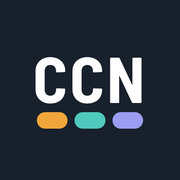
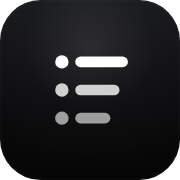
Sunucu paketi 63 (aa3c1d7)

diff --git a/app.js b/app.js
@@ -1,5 +1,5 @@
 'use strict';
-/* CCN Vardiya Programı — vardiya listesi görsellerinden 1/2/3 vardiya, OFF, rapor ve izin listeleri çıkarır.
+/* Vardiya Listesi — vardiya listesi görsellerinden 1/2/3 vardiya, OFF, rapor ve izin listeleri çıkarır.
    Tüm veri cihazda (localStorage) tutulur; APK (Capacitor) içinde de aynı kod çalışır. */
 
 // ---------- Sabitler ----------
@@ -267,7 +267,7 @@ window.addEventListener('error', (e) => logError('genel', e.error || e.message))
 window.addEventListener('unhandledrejection', (e) => logError('genel', e.reason));
 function errorReport() {
   const list = readLS(ERR_KEY, []);
-  return [`CCN Vardiya Programı hata raporu`, `Sürüm: ${APP_VERSION}`, `Tarih: ${new Date().toLocaleString('tr-TR')}`,
+  return [`Vardiya Listesi hata raporu`, `Sürüm: ${APP_VERSION}`, `Tarih: ${new Date().toLocaleString('tr-TR')}`,
     `Cihaz: ${navigator.userAgent}`, `Ekran: ${screen.width}×${screen.height} @${devicePixelRatio}x`, `Dil: ${navigator.language}`, `Bağlantı: ${navigator.onLine ? 'çevrimiçi' : 'çevrimdışı'}`,
     `Kayıtlı kişi: ${Object.keys(store.people).length} · Yüklenen liste: ${store.uploads.length}`, '',
     list.length ? `Son hatalar (${list.length}):` : 'Kayıtlı hata yok.', ...list.map((x) => `- ${x.at} [${x.where}] ${x.msg}${x.stack ? '\n  ' + x.stack : ''}`)].join('\n');
@@ -287,7 +287,7 @@ async function checkForUpdate(manual) {
 function updateSheet(info) {
   const v = info.availableVersionName ? ` (${esc(info.availableVersionName)})` : '';
   sheet(`<div class="permhead">${ICON_UPLOAD}<h3>Yeni sürüm hazır${v}</h3></div>
-    <p class="muted" style="margin:0">CCN Vardiya Programı'nın yeni sürümü Google Play'de. Yenilikler ve düzeltmeler için şimdi güncelleyin. Kayıtlı listeleriniz silinmez.</p>
+    <p class="muted" style="margin:0">Vardiya Listesi'nin yeni sürümü Google Play'de. Yenilikler ve düzeltmeler için şimdi güncelleyin. Kayıtlı listeleriniz silinmez.</p>
     <div class="row"><button class="btn primary" id="up-ok">Güncelle</button><button class="btn" data-x="1">Sonra</button></div>`, (bg) => {
     bg.querySelector('#up-ok').addEventListener('click', async () => {
       closeSheet();
@@ -302,7 +302,7 @@ function updateSheet(info) {
 // Görsel seçmeden önce fotoğraf erişimi için izin iste (bir kez; Ayarlar'dan geri alınabilir)
 function askPhotoAccess(then) {
   sheet(`<div class="permhead">${ICON_IMAGE}<h3>Fotoğraflarınıza erişim</h3></div>
-    <p class="muted" style="margin:0"><b>CCN Vardiya Programı</b>, vardiya listesi görsellerini okuyabilmek için fotoğraflarınıza erişmek istiyor.</p>
+    <p class="muted" style="margin:0"><b>Vardiya Listesi</b>, vardiya listesi görsellerini okuyabilmek için fotoğraflarınıza erişmek istiyor.</p>
     <ul class="small muted permlist"><li>Yalnızca sizin seçtiğiniz görseller açılır.</li><li>Görseller okunduktan sonra saklanmaz, telefon dışına gönderilmez.</li><li>İzni istediğiniz zaman Ayarlar’dan geri alabilirsiniz.</li></ul>
     <div class="row"><button class="btn primary" id="pa-ok">İzin ver</button><button class="btn" id="pa-no">İzin verme</button></div>`, (bg) => {
     bg.querySelector('#pa-ok').addEventListener('click', () => { prefs.photoOk = true; savePrefs(); closeSheet(); then(); });
@@ -483,7 +483,7 @@ async function renderPushCard() {
   const info = `<ul class="small muted" style="margin:0;padding-left:18px"><li>Bildirimler <b>zorunludur</b>: duyurular, yeni vardiya listesi, vardiya hatırlatması, şikayet ve güncellemeler herkese gelir.</li><li><b>OFF, rapor ve izin günlerinizde</b> bildirim gönderilmez (yalnızca hesap güvenliği uyarıları gelir).</li></ul>`;
   const body = {
     yok: '<p class="small muted" style="margin:0">Bu tarayıcı bildirimleri desteklemiyor. Android’de Chrome, bilgisayarda Chrome ya da Edge kullanın.</p>',
-    ios: `<p class="small muted" style="margin:0">iPhone ve iPad’de bildirim için önce siteyi ana ekrana ekleyin, sonra ana ekrandaki <b>CCN Vardiya</b> simgesinden açıp buradan bildirimi açın.</p><div><button class="btn" data-act="install-app">${ICON_DOWNLOAD}Ana ekrana ekle</button></div>`,
+    ios: `<p class="small muted" style="margin:0">iPhone ve iPad’de bildirim için önce siteyi ana ekrana ekleyin, sonra ana ekrandaki <b>Vardiya Listesi</b> simgesinden açıp buradan bildirimi açın.</p><div><button class="btn" data-act="install-app">${ICON_DOWNLOAD}Ana ekrana ekle</button></div>`,
     red: '<p class="small muted" style="margin:0">Bildirim izni kapalı. Tarayıcının ya da telefonun ayarlarından bu site için bildirimlere izin verin, sonra sayfayı yenileyin.</p>',
     acik: '', kapali: '',
   }[st];
@@ -505,7 +505,7 @@ function installApp() {
     firefox: ['Firefox uygulama olarak eklemeyi desteklemiyor.', 'Bu sayfayı <b>Google Chrome</b> ya da <b>Microsoft Edge</b>’de açın ve buradaki düğmeye tekrar basın.'],
     desktop: ['Adres çubuğunun sağındaki <b>yükle</b> simgesine (⊕ ya da ekran simgesi) tıklayın.', 'Simge yoksa: Chrome’da <b>⋮</b> menüsü → <b>Yayınla, kaydet ve paylaş</b> → <b>Sayfayı uygulama olarak yükle</b>; Edge’de <b>…</b> menüsü → <b>Uygulamalar</b> → <b>Bu siteyi uygulama olarak yükle</b>.', '<b>Yükle</b>’ye tıklayın. Masaüstünde ve Başlat menüsünde simgesi çıkar.'],
   }[pf];
-  sheet(`<h3>Uygulama olarak ekle</h3><p class="small muted" style="margin:0">CCN Vardiya ${pf === 'ios' || pf === 'android' ? 'ana ekranınıza' : 'bilgisayarınıza'} uygulama olarak eklenir; tek dokunuşla, tarayıcı çubuğu olmadan açılır.</p>
+  sheet(`<h3>Uygulama olarak ekle</h3><p class="small muted" style="margin:0">Vardiya Listesi ${pf === 'ios' || pf === 'android' ? 'ana ekranınıza' : 'bilgisayarınıza'} uygulama olarak eklenir; tek dokunuşla, tarayıcı çubuğu olmadan açılır.</p>
     <ol class="steps">${steps.map((x) => `<li>${x}</li>`).join('')}</ol>
     <div class="row"><button class="btn primary" data-x="1">Tamam</button></div>`);
 }
@@ -822,7 +822,7 @@ function render() {
   sub.textContent = store.settings.company ? store.settings.company : SERVER && auth ? (canEdit() ? 'Yönetim paneli' : 'Vardiya listesi') : '1 · 2 · 3 vardiya, OFF ve izin takibi';
   let lastSync = null; try { lastSync = localStorage.getItem('ccn-son-veri'); } catch (e) { /* yoksay */ }
   const offline = SERVER && auth && srv.offline ? `<div class="banner offline"><p><b>Çevrimdışı</b> · son güncelleme ${lastSync ? fmtWhen(lastSync) : 'bilinmiyor'}. İnternet gelince liste kendiliğinden yenilenir.</p></div>` : '';
-  const inst = canOfferInstall() && auth && !prefs.installHide ? `<div class="banner install"><p><b>CCN Vardiya’yı uygulama olarak ekleyin.</b> ${devicePlatform() === 'ios' || devicePlatform() === 'android' ? 'Ana ekranınızdan' : 'Masaüstünüzden'} tek dokunuşla açılır.</p><button class="btn primary" data-act="install-app">${ICON_DOWNLOAD}Ekle</button><button class="btn" data-act="install-hide">Kapat</button></div>` : '';
+  const inst = canOfferInstall() && auth && !prefs.installHide ? `<div class="banner install"><p><b>Vardiya Listesi’ni uygulama olarak ekleyin.</b> ${devicePlatform() === 'ios' || devicePlatform() === 'android' ? 'Ana ekranınızdan' : 'Masaüstünüzden'} tek dokunuşla açılır.</p><button class="btn primary" data-act="install-app">${ICON_DOWNLOAD}Ekle</button><button class="btn" data-act="install-hide">Kapat</button></div>` : '';
   const pst = srv.pushState;
   const pushBan = SERVER && auth && !NATIVE && pst && pst !== 'acik' && pst !== 'yok' ? `<div class="banner pushban"><p><b>🔔 Bildirimler zorunludur.</b> ${pst === 'kapali' ? 'Duyuru, liste ve vardiya bildirimlerini almak için izin verin.' : pst === 'red' ? 'Bildirim izni kapalı. Tarayıcının ya da telefonun ayarlarından bu siteye bildirim izni verin.' : 'iPhone/iPad’de bildirim için siteyi ana ekrana ekleyin ve oradan açın.'}</p>${pst === 'kapali' ? '<button class="btn primary" data-act="push-allow">İzin ver</button>' : pst === 'ios' ? `<button class="btn primary" data-act="install-app">${ICON_DOWNLOAD}Ana ekrana ekle</button>` : ''}</div>` : '';
   let banner = offline + pushBan + inst + (store.demo ? `<div class="banner"><p><b>Örnek veri gösteriliyor.</b> Kendi vardiya listenizin görselini “Liste Yükle” bölümünden ekleyin; örnek veri o zaman silinir.</p><button class="btn" data-act="clear-demo">Örnek veriyi temizle</button></div>` : '');
@@ -1102,7 +1102,7 @@ function showWhatsNew(force) {
   const r = srv.yenilikler; if (!r || !r.surum) return;
   if (!force && prefs.seenNotes === r.surum) return;
   prefs.seenNotes = r.surum; savePrefs();
-  sheet(`<div class="eyebrow">Yenilikler</div><h3 style="margin:0;font-size:22px">CCN Vardiya ${esc(r.surum)}</h3>
+  sheet(`<div class="eyebrow">Yenilikler</div><h3 style="margin:0;font-size:22px">Vardiya Listesi ${esc(r.surum)}</h3>
     <ul class="whatsnew">${(r.maddeler || []).map((m) => `<li>${esc(m)}</li>`).join('')}</ul>
     <div class="row"><button class="btn primary" data-x="1">Tamam</button></div>`);
 }
@@ -1441,7 +1441,7 @@ async function exportExcel() {
   if (!people.length) { toast('Çizelgede kimse yok'); return; }
   const title = ui.gridSpan === 'ay' ? `${MONTHS[parseIso(days[0]).getMonth()]} ${parseIso(days[0]).getFullYear()}` : `${fmtShort(days[0])}-${fmtShort(days[days.length - 1])}`;
   const blob = buildXlsx(days, people, title);
-  const name = `CCN-Vardiya-${days[0]}_${days[days.length - 1]}${ui.gridGroup !== 'all' ? '-' + ui.gridGroup + '.vardiya' : ''}.xlsx`;
+  const name = `Vardiya-Listesi-${days[0]}_${days[days.length - 1]}${ui.gridGroup !== 'all' ? '-' + ui.gridGroup + '.vardiya' : ''}.xlsx`;
   const file = new File([blob], name, { type: blob.type });
   const native = !!(window.Capacitor && window.Capacitor.isNativePlatform && window.Capacitor.isNativePlatform());
   if (native && navigator.canShare && navigator.canShare({ files: [file] })) { try { await navigator.share({ files: [file], title: name }); return; } catch (e) { if (e && e.name === 'AbortError') return; } }
@@ -1952,7 +1952,7 @@ const actions = {
   'photo-allow': () => askPhotoAccess(() => { render(); toast('Fotoğraf izni verildi'); }),
   'photo-revoke': () => { prefs.photoOk = false; savePrefs(); render(); toast('Fotoğraf izni kaldırıldı'); },
   'check-update': () => checkForUpdate(true),
-  'send-report': () => doShare(errorReport(), 'CCN Vardiya Programı hata raporu'),
+  'send-report': () => doShare(errorReport(), 'Vardiya Listesi hata raporu'),
   'clear-errors': () => { writeLS(ERR_KEY, []); render(); toast('Hata kayıtları temizlendi'); },
   'wipe': () => confirmSheet('Tüm veriler silinsin mi?', 'Yüklenen bütün listeler ve kişiler bu cihazdan silinir. Bu işlem geri alınamaz.', 'Hepsini sil', () => { store = defaultStore(); save(); render(); toast('Tüm veriler silindi'); }),
 };

diff --git a/index.html b/index.html
@@ -9,11 +9,11 @@
 <link rel="apple-touch-icon" href="apple-touch-icon.png">
 <meta name="mobile-web-app-capable" content="yes">
 <meta name="apple-mobile-web-app-capable" content="yes">
-<meta name="apple-mobile-web-app-title" content="CCN Vardiya">
+<meta name="apple-mobile-web-app-title" content="Vardiya Listesi">
 <meta name="apple-mobile-web-app-status-bar-style" content="default">
 </head>
 <body>
-<title>CCN Vardiya Programı</title>
+<title>Vardiya Listesi</title>
 <meta name="claude:viewport-fit-sides" content="cover">
 <link rel="stylesheet" href="fonts/fonts.css">
 <style>
@@ -61,7 +61,7 @@
   color-scheme: dark;
 }
 * { box-sizing: border-box; }
-/* Açılış animasyonu: logo (CCN + üç vardiya çubuğu) sahneye girer, çubuklar sırayla yanar, ekran büyüyerek kaybolur */
+/* Açılış animasyonu: Ankara hava durumuna göre efekt (yağmur/kar/bulut/yıldız) + "VARDİYA LİSTESİ" ve yükleme çubuğu */
 #intro { position: fixed; inset: 0; z-index: 9999; display: grid; place-items: center; overflow: hidden; background: #040405; color: #fff; cursor: pointer; font-family: var(--font-display); }
 #intro::before { content: ''; position: absolute; inset: 0; background: radial-gradient(120% 90% at 50% 34%, #15161a 0%, #0a0a0c 55%, #040405 100%); }
 #intro::after { content: ''; position: absolute; inset: 0; z-index: 2; box-shadow: inset 0 0 240px 60px #000; opacity: .55; pointer-events: none; }
@@ -110,9 +110,8 @@ h1, h2, h3 { font-family: var(--font-display); text-wrap: balance; margin: 0; li
 .topbar { position: sticky; top: env(safe-area-inset-top, 0px); z-index: 5; background: var(--surface); border-bottom: 1px solid var(--line); }
 .topbar-in { max-width: 1000px; margin: 0 auto; padding-block: 10px; padding-left: max(16px, env(safe-area-inset-left, 0px)); padding-right: max(16px, env(safe-area-inset-right, 0px)); display: flex; align-items: center; gap: 16px; flex-wrap: wrap; }
 .brand { display: flex; align-items: center; gap: 10px; margin-right: auto; }
-.brand-mark { display: grid; grid-template-columns: repeat(3, 8px); gap: 3px; }
-.brand-mark i { height: 22px; border-radius: 2px; }
-.brand-mark i:nth-child(1) { background: var(--s1); } .brand-mark i:nth-child(2) { background: var(--s2); } .brand-mark i:nth-child(3) { background: var(--s3); }
+.brand-mark { width: 30px; height: 30px; flex: 0 0 auto; border-radius: 8px; overflow: hidden; box-shadow: 0 1px 3px rgba(0,0,0,.25); }
+.brand-mark svg { display: block; width: 100%; height: 100%; }
 .brand h1 { font-size: 22px; font-weight: 700; letter-spacing: .01em; }
 .brand small { display: block; color: var(--muted); font-size: 12px; font-family: var(--font-body); }
 .tabs { display: flex; gap: 4px; }
@@ -594,8 +593,10 @@ h4.ph { font-size: 13px; letter-spacing: .04em; text-transform: uppercase; color
 <header class="topbar">
   <div class="topbar-in">
     <div class="brand">
-      <div class="brand-mark" aria-hidden="true"><i></i><i></i><i></i></div>
-      <div><h1>CCN Vardiya Programı</h1><small id="brand-sub">1 · 2 · 3 vardiya, OFF ve izin takibi</small></div>
+      <div class="brand-mark" aria-hidden="true">
+        <svg viewBox="0 0 512 512"><defs><linearGradient id="blbg" x1="0" y1="0" x2="0" y2="1"><stop offset="0" stop-color="#17181c"/><stop offset=".55" stop-color="#0c0c0e"/><stop offset="1" stop-color="#050506"/></linearGradient></defs><rect width="512" height="512" rx="116" fill="url(#blbg)"/><g fill="#fff"><g opacity="1"><circle cx="176" cy="176" r="19"/><rect x="214" y="161" width="150" height="30" rx="15"/></g><g opacity=".8"><circle cx="176" cy="256" r="19"/><rect x="214" y="241" width="126" height="30" rx="15"/></g><g opacity=".6"><circle cx="176" cy="336" r="19"/><rect x="214" y="321" width="100" height="30" rx="15"/></g></g></svg>
+      </div>
+      <div><h1>Vardiya Listesi</h1><small id="brand-sub">1 · 2 · 3 vardiya, OFF ve izin takibi</small></div>
     </div>
     <nav class="tabs" aria-label="Bölümler">
       <button class="tab" data-view="gunluk"><svg viewBox="0 0 24 24" fill="none" stroke="currentColor" stroke-width="2" stroke-linecap="round" stroke-linejoin="round"><rect x="3" y="4" width="18" height="18" rx="2"/><path d="M16 2v4M8 2v4M3 10h18"/><path d="M8 15h3"/></svg>Günlük</button>
@@ -629,7 +630,7 @@ h4.ph { font-size: 13px; letter-spacing: .04em; text-transform: uppercase; color
   setTimeout(off, 6000);
 })();
 </script>
-<script src="app.js?v=1fc93dd2dd"></script>
+<script src="app.js?v=b0933043bc"></script>
 
 </body>
 </html>

diff --git a/livadmin/index.html b/livadmin/index.html
@@ -5,13 +5,13 @@
 <meta name="viewport" content="width=device-width, initial-scale=1">
 <meta name="robots" content="noindex, nofollow">
 <meta name="referrer" content="no-referrer">
-<title>CCN DEV Paneli</title>
+<title>Vardiya Listesi · DEV Paneli</title>
 <meta name="theme-color" content="#0d1117">
 <link rel="manifest" href="manifest.webmanifest">
 <link rel="apple-touch-icon" href="/apple-touch-icon.png">
 <meta name="mobile-web-app-capable" content="yes">
 <meta name="apple-mobile-web-app-capable" content="yes">
-<meta name="apple-mobile-web-app-title" content="CCN DEV">
+<meta name="apple-mobile-web-app-title" content="Vardiya Listesi · DEV">
 <style>
 :root { --bg: #0d1117; --panel: #151b23; --panel2: #1c242e; --line: #2a3441; --fg: #e6edf3; --muted: #8b98a7; --acc: #58a6ff; --ok: #3fb950; --bad: #f85149; --warn: #d29922; --vio: #a371f7; }
 * { box-sizing: border-box; }
@@ -96,10 +96,10 @@ aside #install { color: var(--ok); } aside #install[hidden] { display: none; }
   <button class="btn pri">Giriş</button>
 </form>
 <div id="app">
-  <div id="topbar"><button class="mb" id="mbtn" aria-label="Menü">☰</button><b>CCN Vardiya</b><small>DEV</small></div>
+  <div id="topbar"><button class="mb" id="mbtn" aria-label="Menü">☰</button><b>Vardiya Listesi</b><small>DEV</small></div>
   <div id="drawer-bg"></div>
   <aside>
-    <div class="brand">CCN Vardiya<small>DEV PANELİ</small></div>
+    <div class="brand">Vardiya Listesi<small>DEV PANELİ</small></div>
     <button data-v="ozet">📊 Genel bakış</button>
     <button data-v="log">🟢 Canlı loglar</button>
     <button data-v="den">🧾 Denetim kaydı</button>

diff --git a/sw.js b/sw.js
@@ -1,7 +1,7 @@
-// CCN Vardiya — çevrimdışı açılış ve "ana ekrana ekle" için hizmet çalışanı.
+// Vardiya Listesi — çevrimdışı açılış ve "ana ekrana ekle" için hizmet çalışanı.
 // Uygulama kabuğu (sayfa, kod, yazı tipleri, ikonlar) önce ağdan istenir; ağ yoksa son kopya kullanılır.
 // api.php hiç önbelleğe alınmaz (oturuma özel veri): çevrimdışıyken son liste uygulamanın kendi kaydından gösterilir.
-const CACHE = 'ccn-kabuk-1fc93dd2dd';
+const CACHE = 'ccn-kabuk-b0933043bc';
 const SHELL = ['./', './index.html', './manifest.json', './icon-192.png', './icon-512.png', './apple-touch-icon.png'];
 
 self.addEventListener('install', (e) => {
@@ -51,7 +51,7 @@ self.addEventListener('fetch', (e) => {
 self.addEventListener('push', (e) => {
   let m = {}; try { m = e.data ? e.data.json() : {}; } catch (err) { m = { metin: e.data ? e.data.text() : '' }; }
   if (m.rozet && self.navigator && self.navigator.setAppBadge) self.navigator.setAppBadge().catch(() => {});
-  e.waitUntil(self.registration.showNotification(m.baslik || 'CCN Vardiya', { body: m.metin || '', icon: './icon-192.png', badge: './icon-192.png', tag: m.etiket || undefined, data: { url: m.url || './' } }));
+  e.waitUntil(self.registration.showNotification(m.baslik || 'Vardiya Listesi', { body: m.metin || '', icon: './icon-192.png', badge: './icon-192.png', tag: m.etiket || undefined, data: { url: m.url || './' } }));
 });
 self.addEventListener('notificationclick', (e) => {
   e.notification.close();

diff --git a/gizlilik.html b/gizlilik.html
@@ -3,7 +3,7 @@
 <head>
 <meta charset="utf-8">
 <meta name="viewport" content="width=device-width, initial-scale=1">
-<title>CCN Vardiya · Aydınlatma Metni</title>
+<title>Vardiya Listesi · Aydınlatma Metni</title>
 <style>
 :root { --bg: #f4f6f8; --paper: #fff; --fg: #17202b; --muted: #5b6876; --line: #d5dbe2; --accent: #1f5f8b; }
 @media (prefers-color-scheme: dark) { :root { --bg: #11161c; --paper: #1a2129; --fg: #e6ebf0; --muted: #9aa7b4; --line: #2f3a46; --accent: #6fb1e0; color-scheme: dark; } }
@@ -19,10 +19,10 @@ a { color: var(--accent); }
 </head>
 <body>
 <div class="wrap"><div class="doc">
-<h1>CCN Vardiya Programı<br>Kişisel Verilerin Korunması Aydınlatma Metni</h1>
+<h1>Vardiya Listesi<br>Kişisel Verilerin Korunması Aydınlatma Metni</h1>
 <p class="muted">Son güncelleme: 6 Kasım 2026</p>
 
-<p>Bu metin, 6698 sayılı Kişisel Verilerin Korunması Kanunu (KVKK) kapsamında, CCN Vardiya Programı'nın (web paneli ve iPhone / Android uygulaması) personel hesaplarıyla kullanımında hangi kişisel verilerin, hangi amaçla ve nasıl işlendiğini açıklar.</p>
+<p>Bu metin, 6698 sayılı Kişisel Verilerin Korunması Kanunu (KVKK) kapsamında, Vardiya Listesi'nin (web paneli ve iPhone / Android uygulaması) personel hesaplarıyla kullanımında hangi kişisel verilerin, hangi amaçla ve nasıl işlendiğini açıklar.</p>
 
 <h2>Veri sorumlusu ve iletişim</h2>
 <p>Abdullah Tugay — <a href="mailto:abdullahtugay00@gmail.com">abdullahtugay00@gmail.com</a></p>

diff --git a/livadmin/sw.js b/livadmin/sw.js
@@ -1,4 +1,4 @@
-// CCN DEV paneli — çevrimdışı açılış ve ana ekrana ekleme. api.php kapsam dışında (hep ağdan gelir).
+// Vardiya Listesi · DEV paneli — çevrimdışı açılış ve ana ekrana ekleme. api.php kapsam dışında (hep ağdan gelir).
 const CACHE = 'ccn-dev-1';
 self.addEventListener('install', (e) => { e.waitUntil(caches.open(CACHE).then((c) => c.addAll(['./', './index.html', './manifest.webmanifest']).catch(() => {})).then(() => self.skipWaiting())); });
 self.addEventListener('activate', (e) => { e.waitUntil((async () => { for (const k of await caches.keys()) if (k !== CACHE && k.startsWith('ccn-dev-')) await caches.delete(k); await self.clients.claim(); })()); });

diff --git a/kurulum.php b/kurulum.php
@@ -35,9 +35,9 @@ if (!$hasAdmin && ($_SERVER['REQUEST_METHOD'] ?? '') === 'POST') {
   }
 }
 $e = fn($s) => htmlspecialchars((string)$s, ENT_QUOTES, 'UTF-8');
-?><!doctype html><html lang="tr"><head><meta charset="utf-8"><meta name="viewport" content="width=device-width,initial-scale=1"><title>CCN Vardiya · Kurulum</title>
+?><!doctype html><html lang="tr"><head><meta charset="utf-8"><meta name="viewport" content="width=device-width,initial-scale=1"><title>Vardiya Listesi · Kurulum</title>
 <style>body{font:16px/1.5 system-ui,sans-serif;background:#eef2f5;color:#1b2430;margin:0;padding:24px 16px}main{max-width:440px;margin:auto;background:#fff;border-radius:14px;padding:22px;box-shadow:0 2px 10px #0001}h1{font-size:22px;margin:0 0 6px}label{display:block;margin:12px 0 4px;font-weight:600;font-size:14px}input{width:100%;box-sizing:border-box;padding:11px;border:1px solid #c5ced8;border-radius:10px;font:inherit}button{margin-top:18px;width:100%;padding:12px;border:0;border-radius:10px;background:#1f5f8b;color:#fff;font:600 16px system-ui}.m{padding:10px 12px;border-radius:10px;background:#fde8e8;color:#9b1c1c;margin-top:12px}.ok{background:#e3f6e8;color:#14532d}p{color:#55606d;font-size:14px}</style></head><body><main>
-<h1>CCN Vardiya · İlk kurulum</h1>
+<h1>Vardiya Listesi · İlk kurulum</h1>
 <?php if ($done): ?>
   <div class="m ok"><b>Yönetici hesabı oluşturuldu.</b> Artık <a href="./">ana sayfadan</a> Personel ID ve şifrenizle giriş yapabilirsiniz. Bu sayfa bir daha çalışmaz.</div>
 <?php elseif ($hasAdmin): ?>

diff --git a/api.php b/api.php
@@ -1,5 +1,5 @@
 <?php
-// CCN Vardiya — uygulama ve web paneli için JSON arayüzü.  Kullanım: api.php?r=<işlem>
+// Vardiya Listesi — uygulama ve web paneli için JSON arayüzü.  Kullanım: api.php?r=<işlem>
 declare(strict_types=1);
 const CCN = 1;
 require __DIR__ . '/lib.php';
@@ -157,7 +157,7 @@ switch ($r) {
   }
   case 'bildirim-test': {
     $u = current_user();
-    $n = push_to_people([$u['id']], ['guvenlik' => true, 'baslik' => 'CCN Vardiya', 'metin' => 'Bildirimler açık. Duyurular, yeni liste ve vardiya hatırlatmaları bu cihaza gelecek.', 'url' => './']);
+    $n = push_to_people([$u['id']], ['guvenlik' => true, 'baslik' => 'Vardiya Listesi', 'metin' => 'Bildirimler açık. Duyurular, yeni liste ve vardiya hatırlatmaları bu cihaza gelecek.', 'url' => './']);
     if (!$n) fail(502, 'Deneme bildirimi gönderilemedi. Bildirimi kapatıp yeniden açmayı deneyin.');
     ok(['gonderildi' => $n]);
   }

diff --git a/push.php b/push.php
@@ -152,5 +152,5 @@ function check_release(): void {
   $r = release_info(); if (!$r || meta_get('son_surum') === (string)$r['surum']) return;
   meta_set('son_surum', (string)$r['surum']);
   $items = array_slice((array)($r['maddeler'] ?? []), 0, 3);
-  notify(null, ['baslik' => 'CCN Vardiya ' . $r['surum'] . ' yayında', 'metin' => 'Yenilikler: ' . implode(' · ', $items) . (count((array)($r['maddeler'] ?? [])) > 3 ? ' ve daha fazlası' : ''), 'url' => './#yenilikler', 'etiket' => 'surum-' . $r['surum']], 'guncelleme');
+  notify(null, ['baslik' => 'Vardiya Listesi ' . $r['surum'] . ' yayında', 'metin' => 'Yenilikler: ' . implode(' · ', $items) . (count((array)($r['maddeler'] ?? [])) > 3 ? ' ve daha fazlası' : ''), 'url' => './#yenilikler', 'etiket' => 'surum-' . $r['surum']], 'guncelleme');
 }

diff --git a/lib.php b/lib.php
@@ -1,5 +1,5 @@
 <?php
-// CCN Vardiya — sunucu ortak kodu (doğrudan açılmaz; api.php ve kurulum.php kullanır)
+// Vardiya Listesi — sunucu ortak kodu (doğrudan açılmaz; api.php ve kurulum.php kullanır)
 declare(strict_types=1);
 if (!defined('CCN')) { http_response_code(404); exit; }
 
